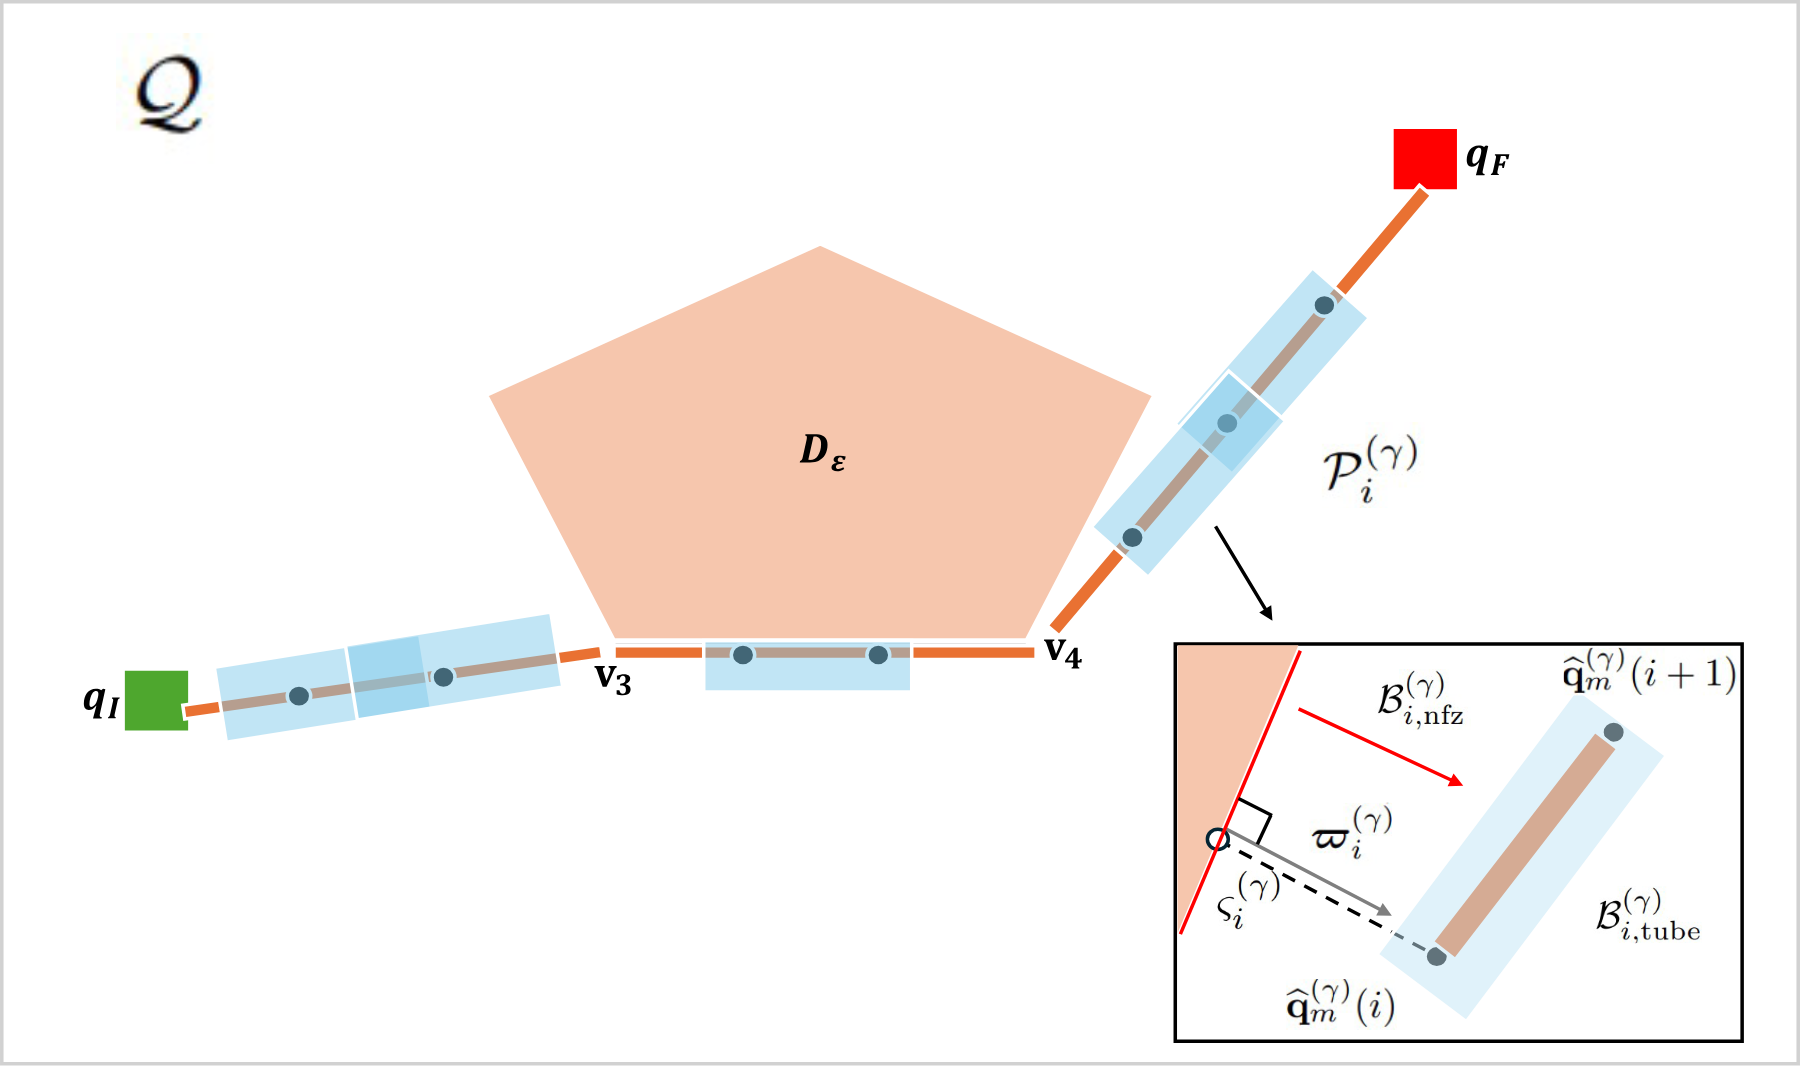
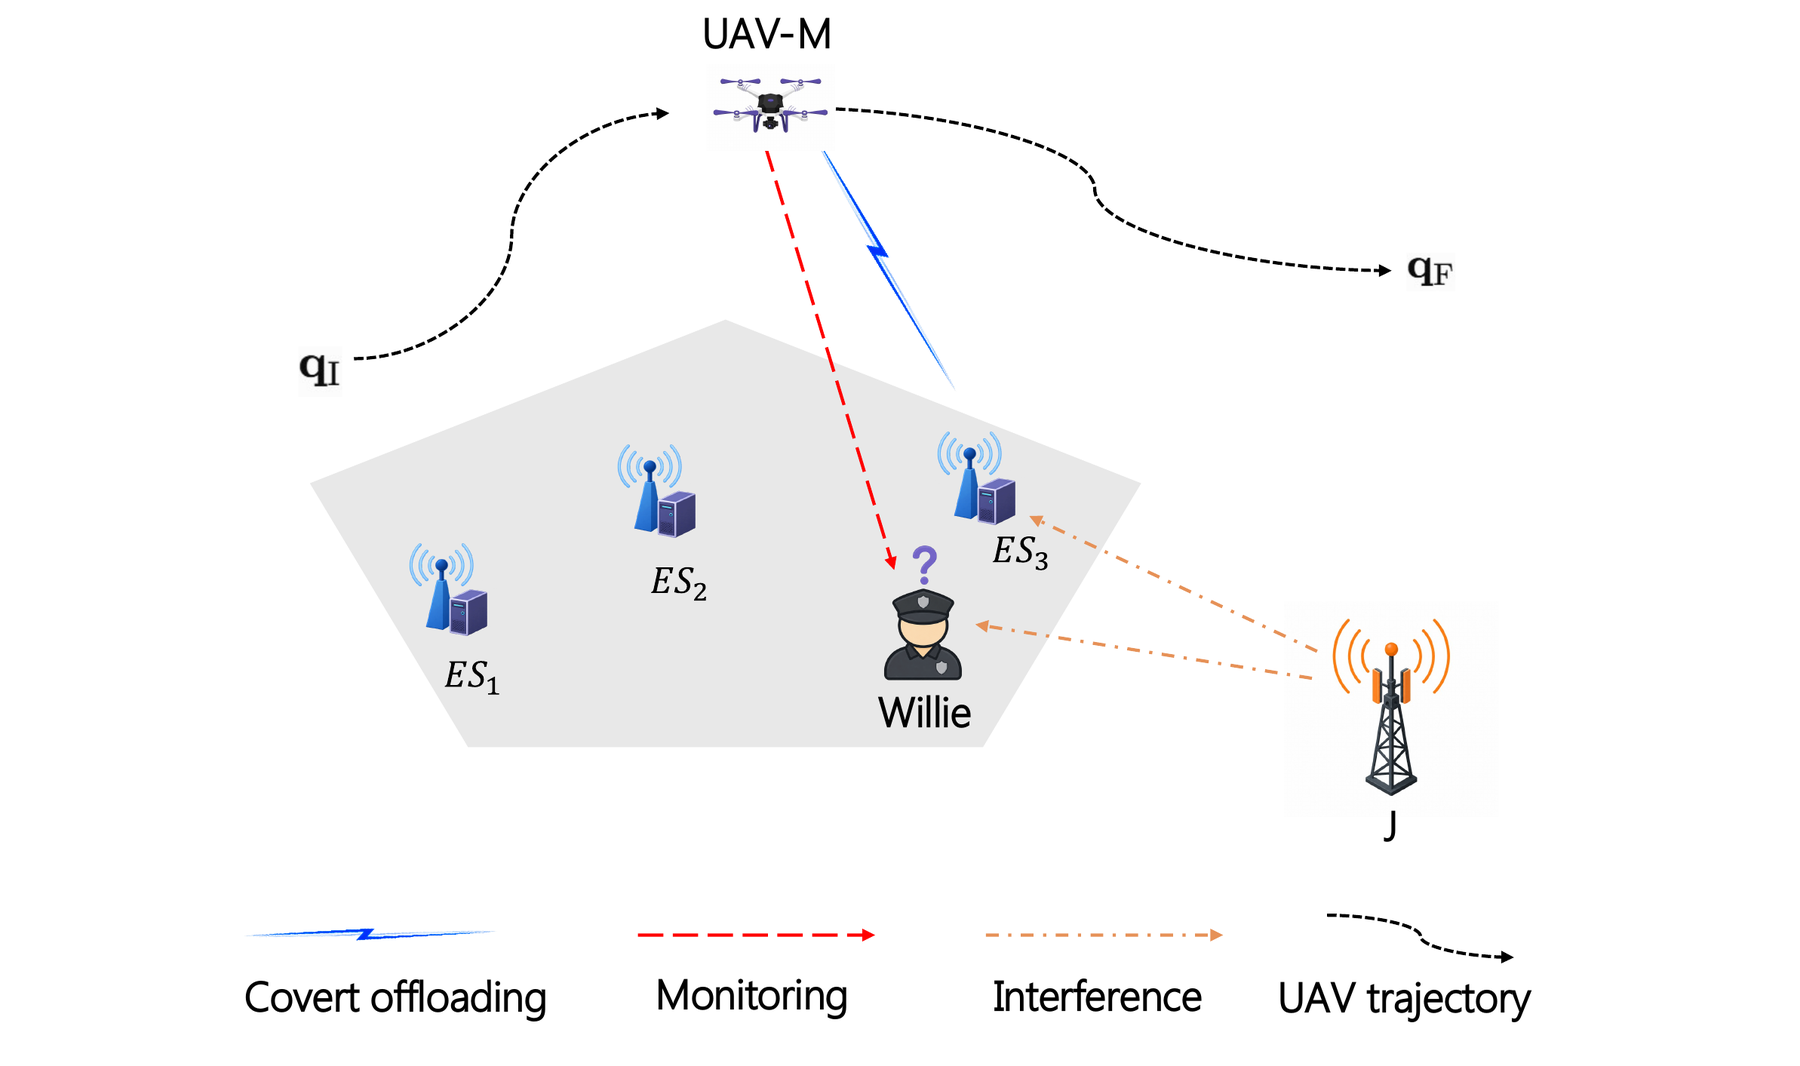
Replace risk-aware path figure with cross-boundary offloading scenario

diff --git a/site-data.js b/site-data.js
@@ -146,8 +146,8 @@ window.SITE_DATA = {
         figures: [
           {
             src: "assets/publications/tmc-risk-aware-path-construction.png",
-            alt: "Geometric illustration of risk-aware UAV path construction around a no-fly zone",
-            caption: "Risk-aware path construction",
+            alt: "Cross-boundary UAV task offloading scenario with edge servers, a monitor, and a jammer",
+            caption: "Cross-Boundary task offloading scenario.",
           },
           {
             src: "assets/publications/tmc-trajectory-scheduling-results.png",

diff --git a/index.html b/index.html
@@ -14,7 +14,7 @@
     <link rel="stylesheet" href="styles.css?v=6" />
     <link rel="stylesheet" href="publication-gallery.css?v=4" />
     <link rel="stylesheet" href="editorial.css?v=64" />
-    <script src="site-data.js?v=22" defer></script>
+    <script src="site-data.js?v=23" defer></script>
     <script src="script.js?v=21" defer></script>
   </head>
   <body class="theme-editorial">
